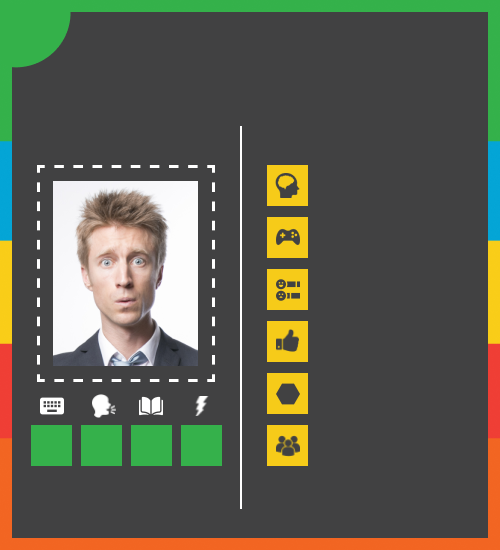
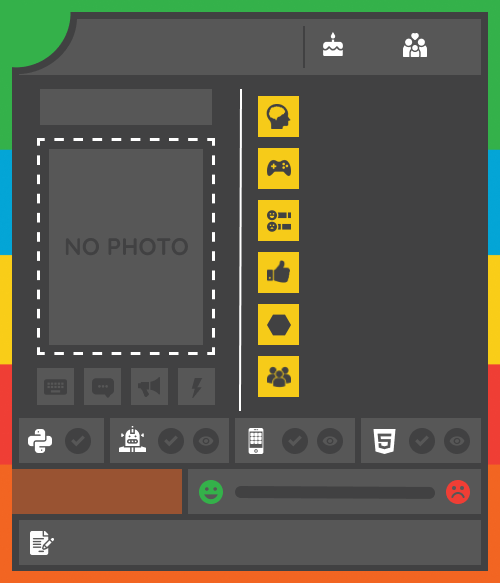
ChangeTheme

diff --git a/app.py b/app.py
@@ -64,24 +64,25 @@ def generateImage(kID):
     estimation = find['estimation']
     group = find['group']
     print(find)
-    img = Image.new("RGB", (500,550), color="red")
+    img = Image.new("RGB", (500,583), color="red")
     #x,y = img.size
     #offset = x // 12, y // 5
     img.paste(Image.open("images/background.png"))
     draw = ImageDraw.Draw(img)
-    fnt = ImageFont.truetype('images/Quicksand-Bold.ttf', 48)
-    fnt1 = ImageFont.truetype('images/Quicksand-Bold.ttf', 25)
-    fnt2 = ImageFont.truetype('images/Quicksand-Bold.ttf', 30)
-    width, height = draw.textsize("KIDO"+kID, fnt)
-    draw.text(((500-width)/2,35),"KIDO"+kID,(255,255,255),font=fnt)
-    draw.text((60,128),name + ", " + age,(255,255,255),font=fnt1)
-    draw.text((325,165),brain,(255,255,255),font=fnt2)
-    draw.text((325,218),game,(255,255,255),font=fnt2)
-    draw.text((325,273),experience,(255,255,255),font=fnt2)
-    draw.text((325,326),interest,(255,255,255),font=fnt2)
-    draw.text((325,379),estimation,(255,255,255),font=fnt2)
-    draw.text((325,432),group,(255,255,255),font=fnt2)
-    draw.text((22,44),str(order),(255,255,255),font=fnt2)
+    fnt = ImageFont.truetype('images/Quicksand-Bold.ttf', 25)
+    fnt1 = ImageFont.truetype('images/Quicksand-Bold.ttf', 30)
+    fnt2 = ImageFont.truetype('images/Quicksand-Bold.ttf', 35)
+    #width, height = draw.textsize("KIDO"+kID, fnt)
+    draw.text((63,92),"KIDO"+kID,(255,255,255),font=fnt)#(500-width)/2
+    draw.text((355,27),age,(255,255,255),font=fnt1)
+    draw.text((121,27),name,(255,255,255),font=fnt1)
+    draw.text((325,96),brain,(255,255,255),font=fnt1)
+    draw.text((325,149),game,(255,255,255),font=fnt1)
+    draw.text((325,201),experience,(255,255,255),font=fnt1)
+    draw.text((325,253),interest,(255,255,255),font=fnt1)
+    draw.text((313,306),estimation,(255,255,255),font=fnt1)
+    draw.text((313,358),group,(255,255,255),font=fnt1)
+    draw.text((26,9),str(order),(255,255,255),font=fnt2)
     #img.save('final.png')
     bio = BytesIO()
     bio.name = 'image.png'
